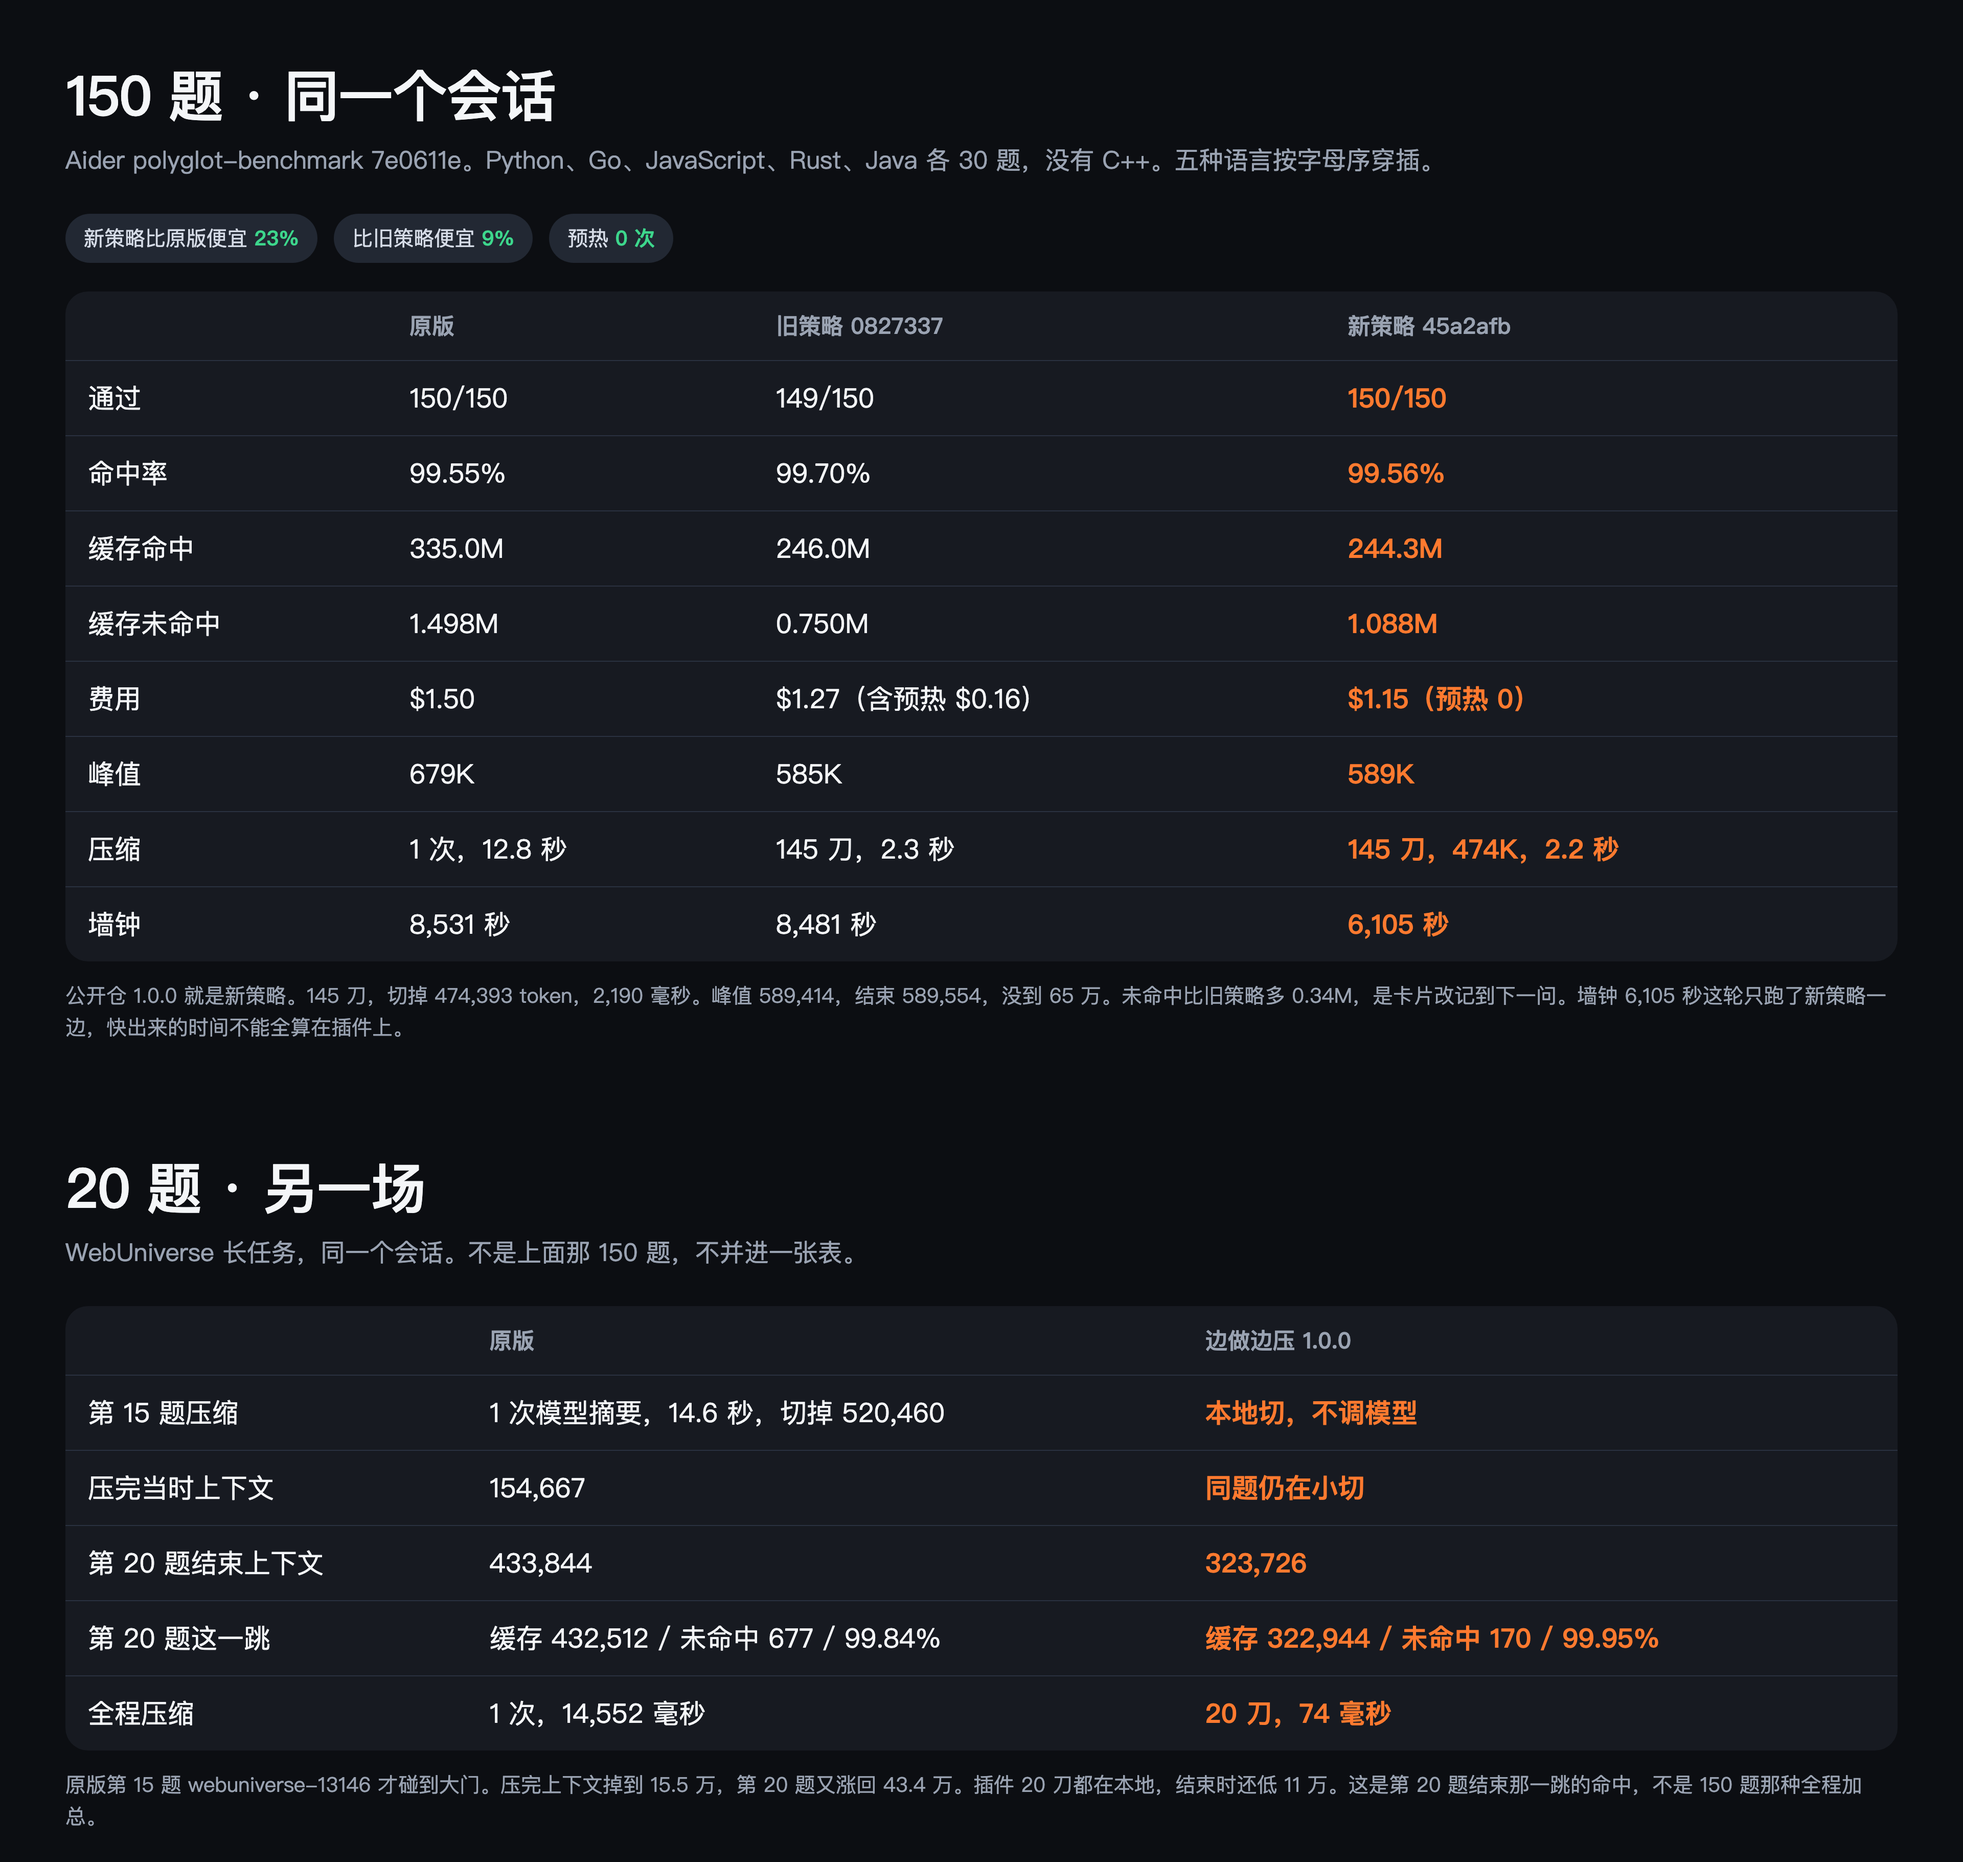
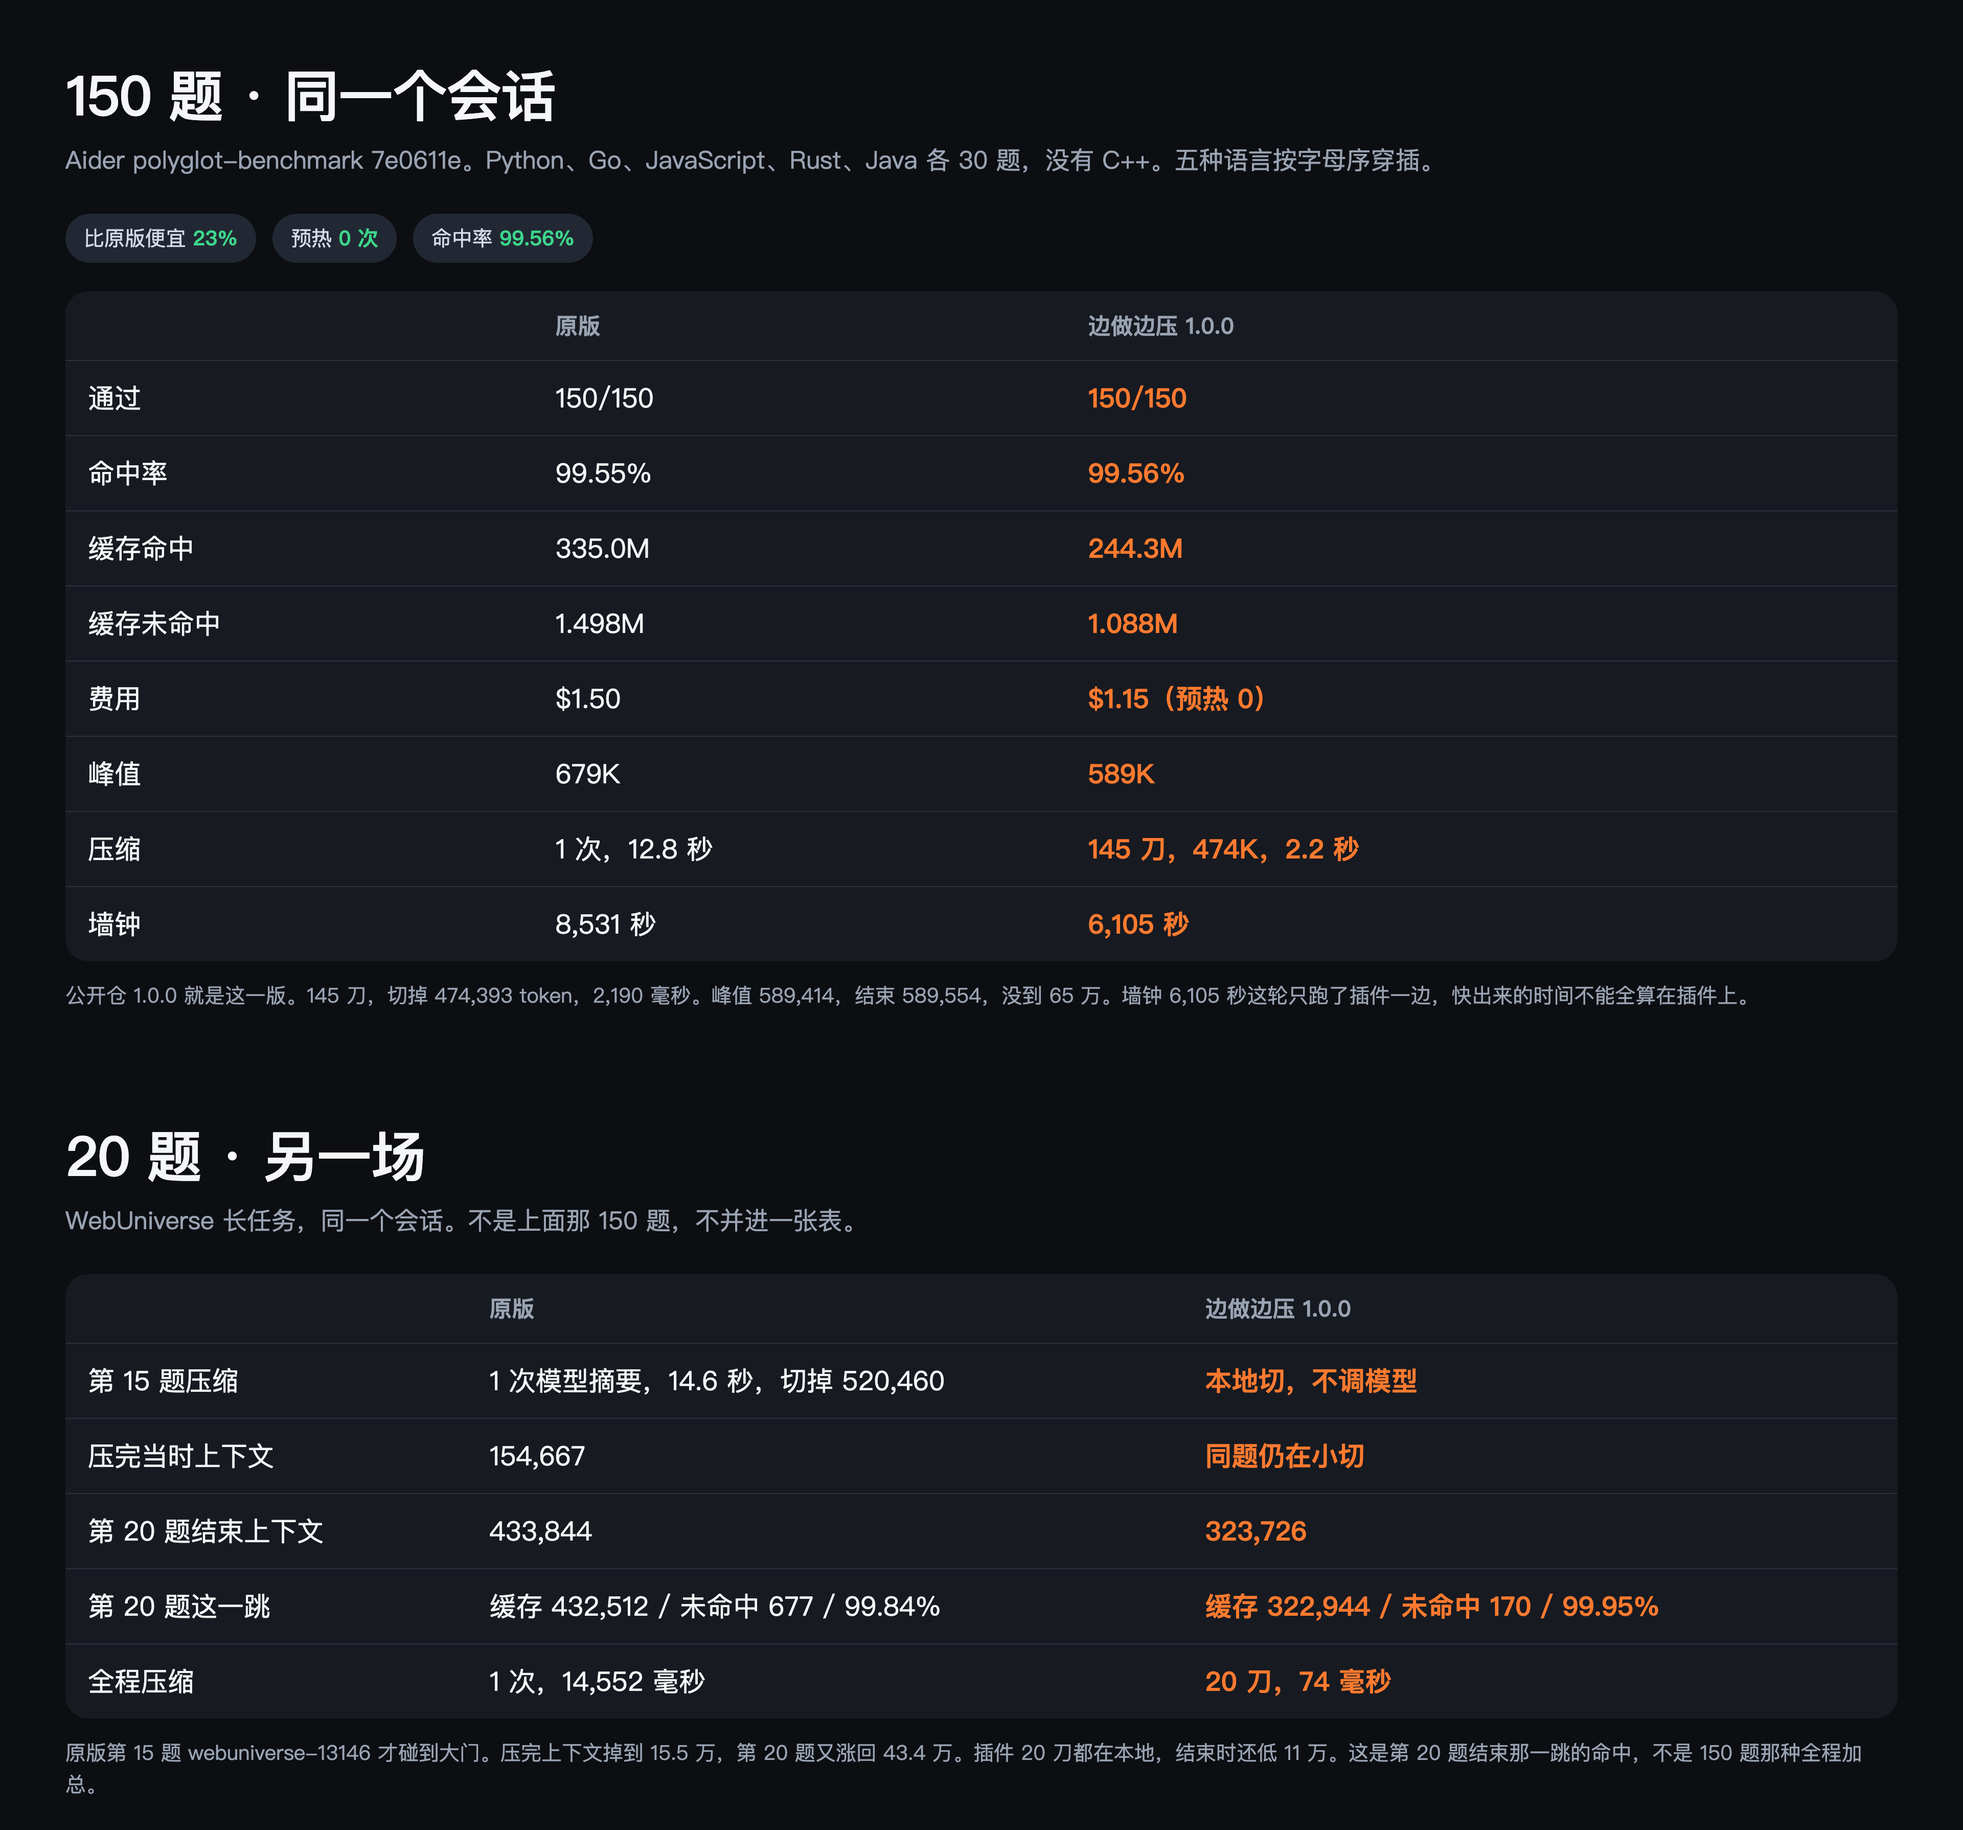
Drop the old strategy from the comparison.
The public chart now shows stock against Live Compact 1.0.0 only.

diff --git a/docs/compare.html b/docs/compare.html
@@ -29,27 +29,26 @@
   <h1>150 题 · 同一个会话</h1>
   <div class="sub">Aider polyglot-benchmark 7e0611e。Python、Go、JavaScript、Rust、Java 各 30 题，没有 C++。五种语言按字母序穿插。</div>
   <div class="pills">
-    <div class="pill">新策略比原版便宜 <b>23%</b></div>
-    <div class="pill">比旧策略便宜 <b>9%</b></div>
+    <div class="pill">比原版便宜 <b>23%</b></div>
     <div class="pill">预热 <b>0 次</b></div>
+    <div class="pill">命中率 <b>99.56%</b></div>
   </div>
   <table>
     <tr>
       <th></th>
       <th class="num">原版</th>
-      <th class="num">旧策略 0827337</th>
-      <th class="num">新策略 45a2afb</th>
+      <th class="num">边做边压 1.0.0</th>
     </tr>
-    <tr><td>通过</td><td class="num">150/150</td><td class="num">149/150</td><td class="num new">150/150</td></tr>
-    <tr><td>命中率</td><td class="num">99.55%</td><td class="num">99.70%</td><td class="num new">99.56%</td></tr>
-    <tr><td>缓存命中</td><td class="num">335.0M</td><td class="num">246.0M</td><td class="num new">244.3M</td></tr>
-    <tr><td>缓存未命中</td><td class="num">1.498M</td><td class="num">0.750M</td><td class="num new">1.088M</td></tr>
-    <tr><td>费用</td><td class="num">$1.50</td><td class="num">$1.27（含预热 $0.16）</td><td class="num new">$1.15（预热 0）</td></tr>
-    <tr><td>峰值</td><td class="num">679K</td><td class="num">585K</td><td class="num new">589K</td></tr>
-    <tr><td>压缩</td><td class="num">1 次，12.8 秒</td><td class="num">145 刀，2.3 秒</td><td class="num new">145 刀，474K，2.2 秒</td></tr>
-    <tr><td>墙钟</td><td class="num">8,531 秒</td><td class="num">8,481 秒</td><td class="num new">6,105 秒</td></tr>
+    <tr><td>通过</td><td class="num">150/150</td><td class="num new">150/150</td></tr>
+    <tr><td>命中率</td><td class="num">99.55%</td><td class="num new">99.56%</td></tr>
+    <tr><td>缓存命中</td><td class="num">335.0M</td><td class="num new">244.3M</td></tr>
+    <tr><td>缓存未命中</td><td class="num">1.498M</td><td class="num new">1.088M</td></tr>
+    <tr><td>费用</td><td class="num">$1.50</td><td class="num new">$1.15（预热 0）</td></tr>
+    <tr><td>峰值</td><td class="num">679K</td><td class="num new">589K</td></tr>
+    <tr><td>压缩</td><td class="num">1 次，12.8 秒</td><td class="num new">145 刀，474K，2.2 秒</td></tr>
+    <tr><td>墙钟</td><td class="num">8,531 秒</td><td class="num new">6,105 秒</td></tr>
   </table>
-  <div class="note">公开仓 1.0.0 就是新策略。145 刀，切掉 474,393 token，2,190 毫秒。峰值 589,414，结束 589,554，没到 65 万。未命中比旧策略多 0.34M，是卡片改记到下一问。墙钟 6,105 秒这轮只跑了新策略一边，快出来的时间不能全算在插件上。</div>
+  <div class="note">公开仓 1.0.0 就是这一版。145 刀，切掉 474,393 token，2,190 毫秒。峰值 589,414，结束 589,554，没到 65 万。墙钟 6,105 秒这轮只跑了插件一边，快出来的时间不能全算在插件上。</div>
 </div>
 <div class="page" id="p20">
   <h1>20 题 · 另一场</h1>

diff --git a/README.md b/README.md
@@ -12,7 +12,7 @@ DeepSeek Harness 用到后面，上下文会一直堆。原版要等到窗口大
 
 ![150 题和 20 题对照](docs/compare.png)
 
-150 题是 Aider `polyglot-benchmark` `7e0611e`，Python、Go、JavaScript、Rust、Java 各 30 题，没有 C++，按字母序穿插在同一个会话里。公开仓这版就是新策略：150/150 通过，费用 $1.15，预热 0 次。比旧策略 $1.27 便宜约 9%，比原版 $1.50 便宜约 23%。命中率 99.56%，和原版 99.55% 同一水准。峰值 589K，没到 65 万。145 刀，2.2 秒，不调模型。未命中比旧策略多 0.34M，是卡片改记到下一问。墙钟 6,105 秒这轮只跑了新策略一边，快出来的时间不能全算在插件上。
+150 题是 Aider `polyglot-benchmark` `7e0611e`，Python、Go、JavaScript、Rust、Java 各 30 题，没有 C++，按字母序穿插在同一个会话里。公开仓这版 150/150 通过，费用 $1.15，预热 0 次，比原版 $1.50 便宜约 23%。命中率 99.56%，和原版 99.55% 同一水准。峰值 589K，没到 65 万。145 刀，2.2 秒，不调模型。墙钟 6,105 秒这轮只跑了插件一边，快出来的时间不能全算在插件上。
 
 20 题是另一场 WebUniverse 长任务。原版第 15 题才大压缩，14.6 秒，切掉 52 万，之后又涨回 43.4 万。插件 20 刀、74 毫秒，结束时上下文 32.4 万，低 11 万。第 20 题那一跳命中率原版 99.84%，插件 99.95%。
 
